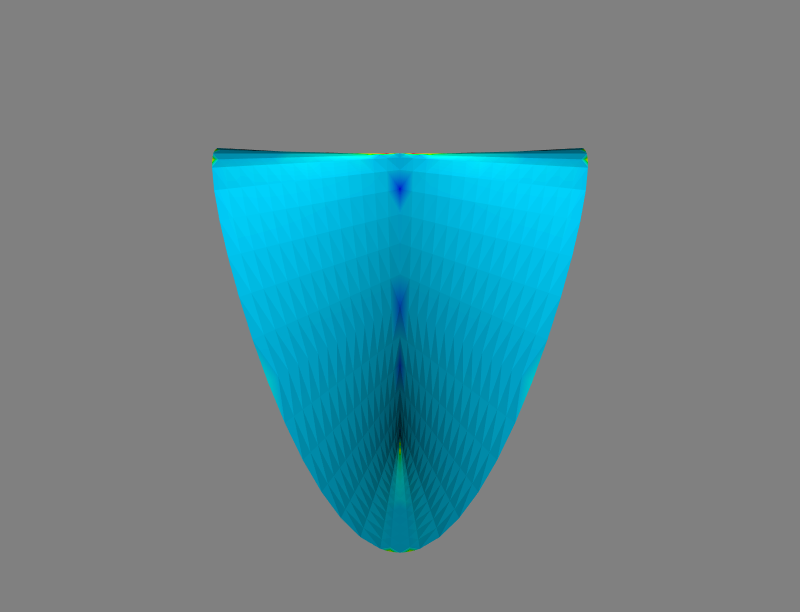
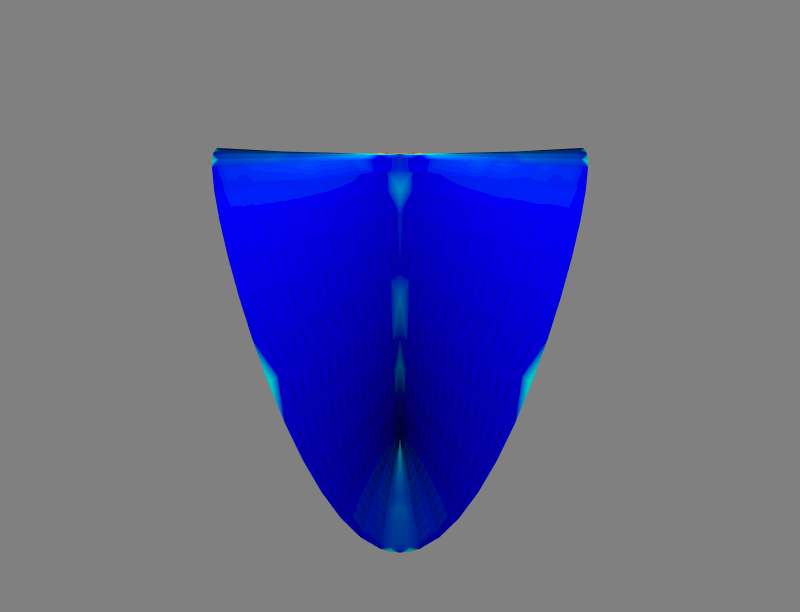
Updated issue in plot files

Changed region(s): [[0.25, 0.2173, 0.75, 0.9003]]

diff --git a/Cylindroid/plot.py b/Cylindroid/plot.py
@@ -1,16 +1,9 @@
 import numpy as np
-from mpl_toolkits.mplot3d import Axes3D
-import matplotlib.pyplot as plt
-from matplotlib import cm
-import numpy as np
-import pandas as pd
-from sys import argv
-import itertools
 from mayavi import mlab 
 
 arr_K_H = np.load('K_H.npy')
 arr_K_G = np.load('K_G.npy')
-arr_K1 = np.load('K2.npy')
+arr_K1 = np.load('K1.npy')
 arr_K2 = np.load('K2.npy')
 vertices = np.load('vertices.npy')
 triangles = np.load('triangles.npy')

diff --git a/Genus3/plot.py b/Genus3/plot.py
@@ -1,16 +1,9 @@
 import numpy as np
-from mpl_toolkits.mplot3d import Axes3D
-import matplotlib.pyplot as plt
-from matplotlib import cm
-import numpy as np
-import pandas as pd
-from sys import argv
-import itertools
 from mayavi import mlab 
 
 arr_K_H = np.load('K_H.npy')
 arr_K_G = np.load('K_G.npy')
-arr_K1 = np.load('K2.npy')
+arr_K1 = np.load('K1.npy')
 arr_K2 = np.load('K2.npy')
 vertices = np.load('vertices.npy')
 triangles = np.load('triangles.npy')

diff --git a/Mobius/plot.py b/Mobius/plot.py
@@ -1,16 +1,9 @@
 import numpy as np
-from mpl_toolkits.mplot3d import Axes3D
-import matplotlib.pyplot as plt
-from matplotlib import cm
-import numpy as np
-import pandas as pd
-from sys import argv
-import itertools
 from mayavi import mlab 
 
 arr_K_H = np.load('K_H.npy')
 arr_K_G = np.load('K_G.npy')
-arr_K1 = np.load('K2.npy')
+arr_K1 = np.load('K1.npy')
 arr_K2 = np.load('K2.npy')
 vertices = np.load('vertices.npy')
 triangles = np.load('triangles.npy')

diff --git a/Mother/plot.py b/Mother/plot.py
@@ -1,16 +1,9 @@
 import numpy as np
-from mpl_toolkits.mplot3d import Axes3D
-import matplotlib.pyplot as plt
-from matplotlib import cm
-import numpy as np
-import pandas as pd
-from sys import argv
-import itertools
 from mayavi import mlab 
 
 arr_K_H = np.load('K_H.npy')
 arr_K_G = np.load('K_G.npy')
-arr_K1 = np.load('K2.npy')
+arr_K1 = np.load('K1.npy')
 arr_K2 = np.load('K2.npy')
 vertices = np.load('vertices.npy')
 triangles = np.load('triangles.npy')

diff --git a/Sphere/plot.py b/Sphere/plot.py
@@ -1,16 +1,9 @@
 import numpy as np
-from mpl_toolkits.mplot3d import Axes3D
-import matplotlib.pyplot as plt
-from matplotlib import cm
-import numpy as np
-import pandas as pd
-from sys import argv
-import itertools
 from mayavi import mlab 
 
 arr_K_H = np.load('K_H.npy')
 arr_K_G = np.load('K_G.npy')
-arr_K1 = np.load('K2.npy')
+arr_K1 = np.load('K1.npy')
 arr_K2 = np.load('K2.npy')
 vertices = np.load('vertices.npy')
 triangles = np.load('triangles.npy')

diff --git a/Torus/plot.py b/Torus/plot.py
@@ -1,16 +1,9 @@
 import numpy as np
-from mpl_toolkits.mplot3d import Axes3D
-import matplotlib.pyplot as plt
-from matplotlib import cm
-import numpy as np
-import pandas as pd
-from sys import argv
-import itertools
 from mayavi import mlab 
 
 arr_K_H = np.load('K_H.npy')
 arr_K_G = np.load('K_G.npy')
-arr_K1 = np.load('K2.npy')
+arr_K1 = np.load('K1.npy')
 arr_K2 = np.load('K2.npy')
 vertices = np.load('vertices.npy')
 triangles = np.load('triangles.npy')
